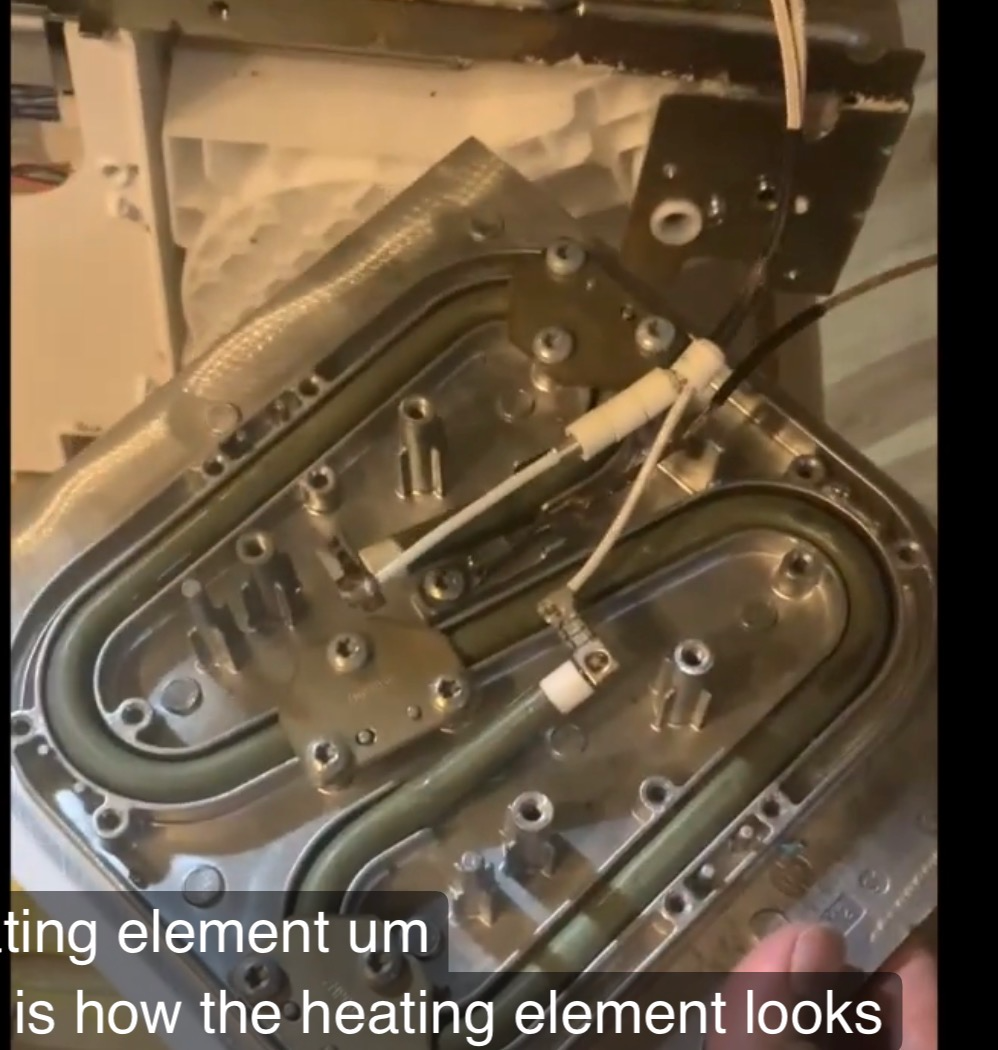
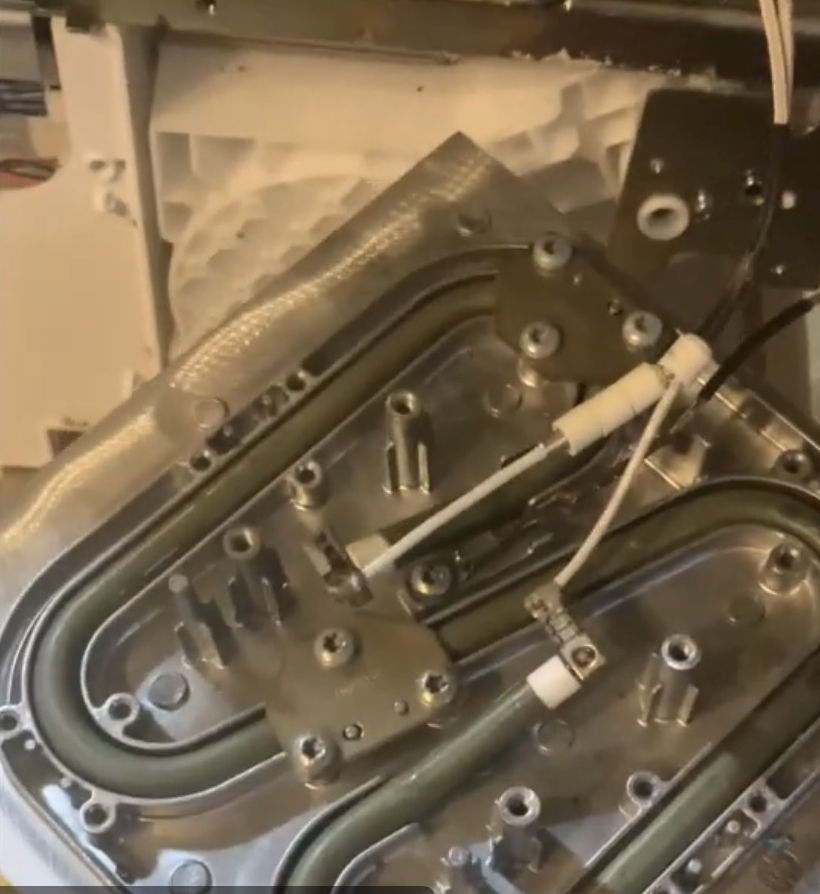
Updated blurb on ADC

diff --git a/roti/index.html b/roti/index.html
@@ -162,14 +162,15 @@
     <!-- ITEM 3: Precision Sensor ADC -->
     <article class="entry">
       <div class="entry-media">
-        <img src="assets/adc.png" alt="Macro shot of Texas Instruments ADS1148 ADC">
+        <img src="assets/adcold.png" alt="Original ADS1148 ADC">
+        <img src="assets/adc.png" alt="Replaced ADC chip drag soldered">
       </div>
       <div class="entry-body">
         <span class="step-badge">03 · Precision Sensing</span>
         <h2>How It Weighs Flour &amp; Reads Heat</h2>
-        <p>Right next to the main processor is a Texas Instruments <strong>ADS1148</strong> 16-bit precision ADC—the chip responsible for turning tiny thermocouple and load-cell signals into actual temperatures
-            and dough weights. This image you see is soon after I drag soldered
-            replacement chip when I accidentally cooked it with 12V.</p>
+        <p>The board is equipped with  Texas Instruments <strong>ADS1148</strong> 16-bit precision ADC—the chip responsible for turning tiny thermocouple and load-cell signals into actual temperatures
+            and dough weights. This second image is the replaced chip  soon after I drag soldered
+            replacement chip when I accidentally cooked it with 12V trying to configure the chip with stimulated TC signals.</p>
       </div>
     </article>
 
@@ -246,7 +247,7 @@
     <article class="entry">
       <div class="entry-media">
         <img src="assets/sandwitch.png" alt="Underside of cast aluminum heating platen with tubular heater">
-        <img src="assets/coils.png" alt="Underside of cast aluminum heating platen with tubular heater">
+        <img src="assets/coils.png" alt="Heating Elements in the platenr">
       </div>
       <div class="entry-body">
         <span class="step-badge">08 · Where the Heat Lives</span>
